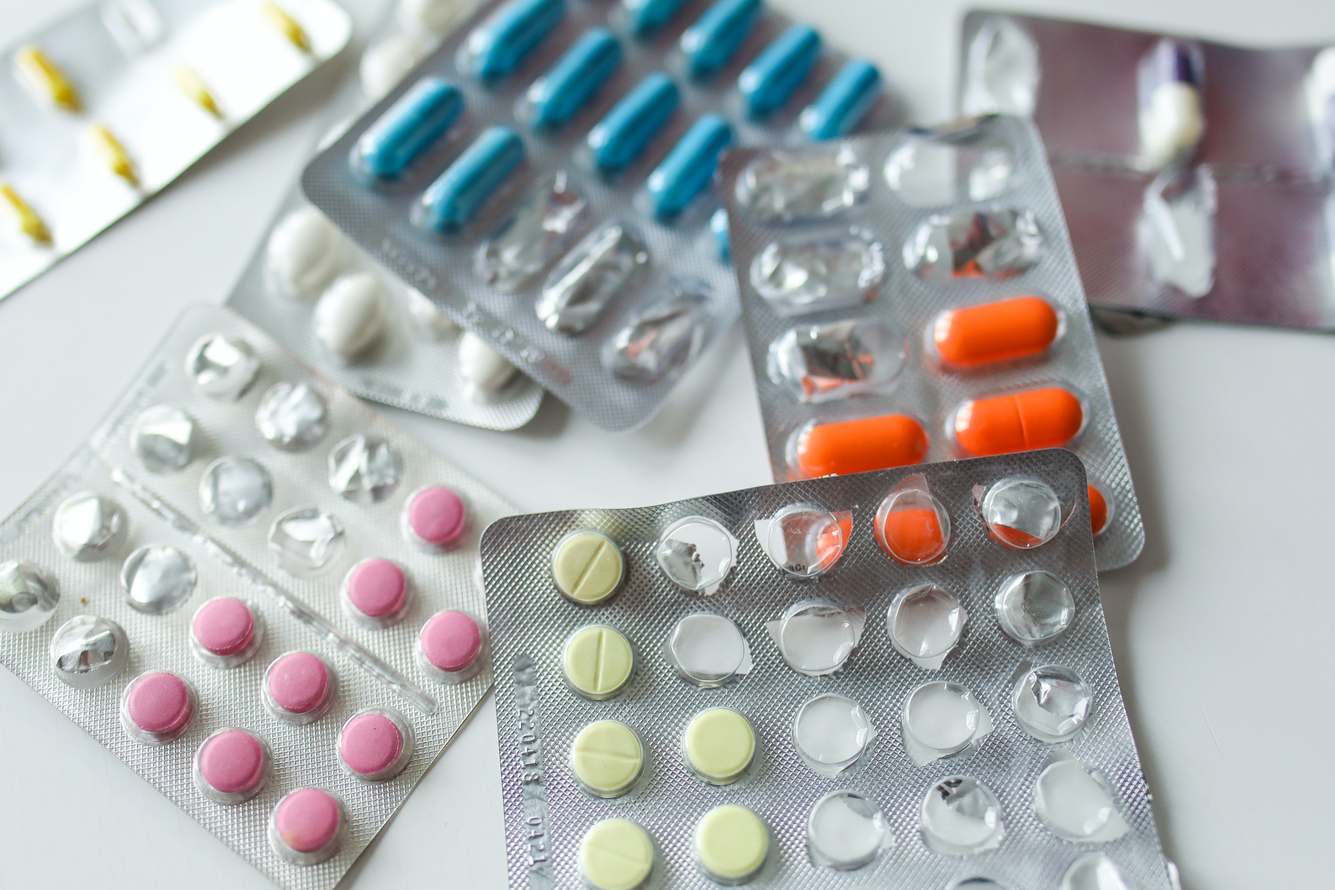
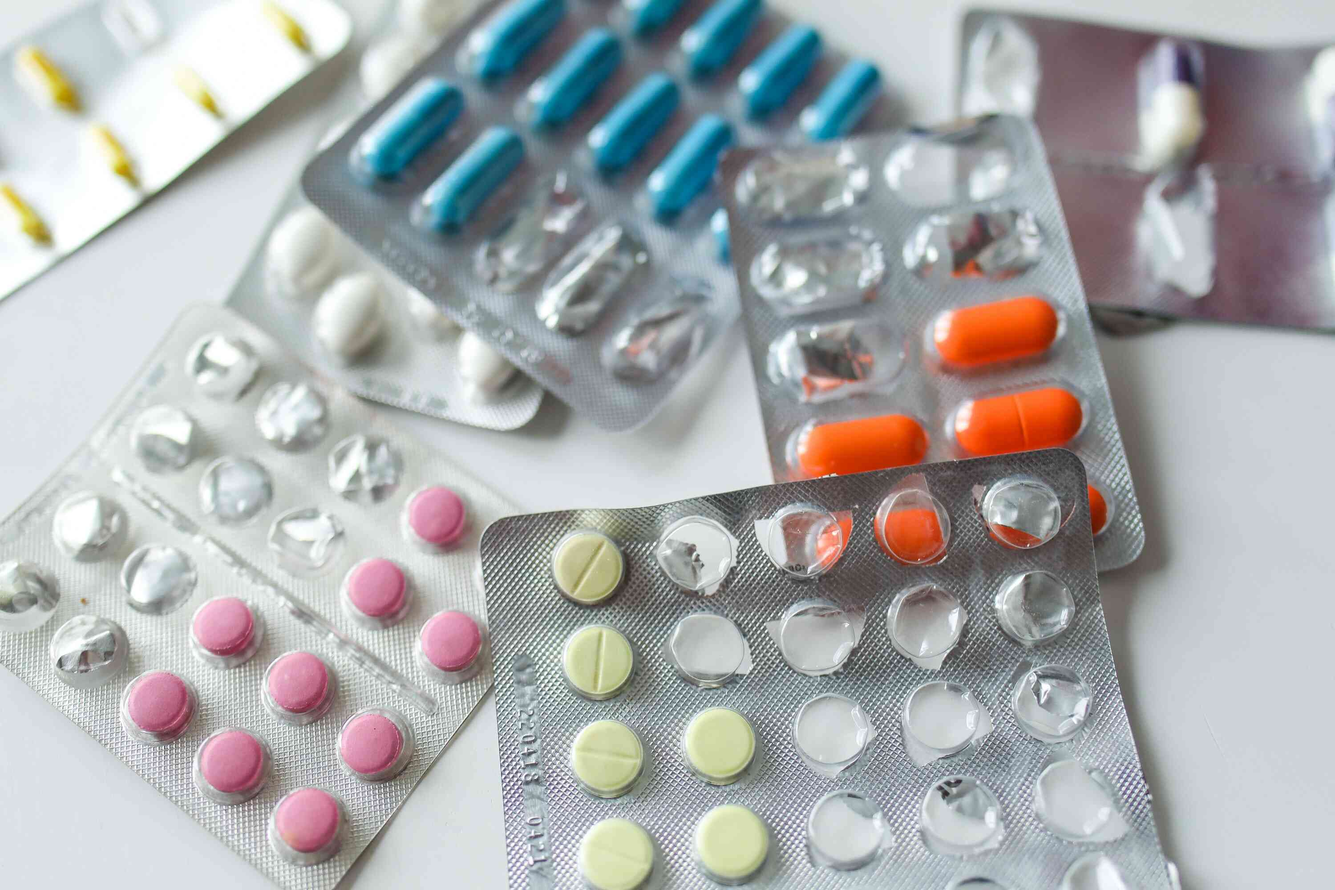
several modifications in public site

diff --git a/public-site/src/app/pages/main-page/main-page.component.html b/public-site/src/app/pages/main-page/main-page.component.html
@@ -35,7 +35,7 @@
         <div id="carouselExampleControls" class="carousel slide d-inline-block h-100" data-bs-ride="carousel">
           <div class="carousel-inner h-100">
             <div class="carousel-item active h-100">
-              <img src="assets/img/image936.png" class="d-block w-100 h-100" alt="..." />
+              <img src="assets/img/image936.jpg" class="d-block w-100 h-100" alt="..." />
             </div>
           </div>
           <button class="carousel-control-prev" type="button" data-bs-target="#carouselExampleControls"
